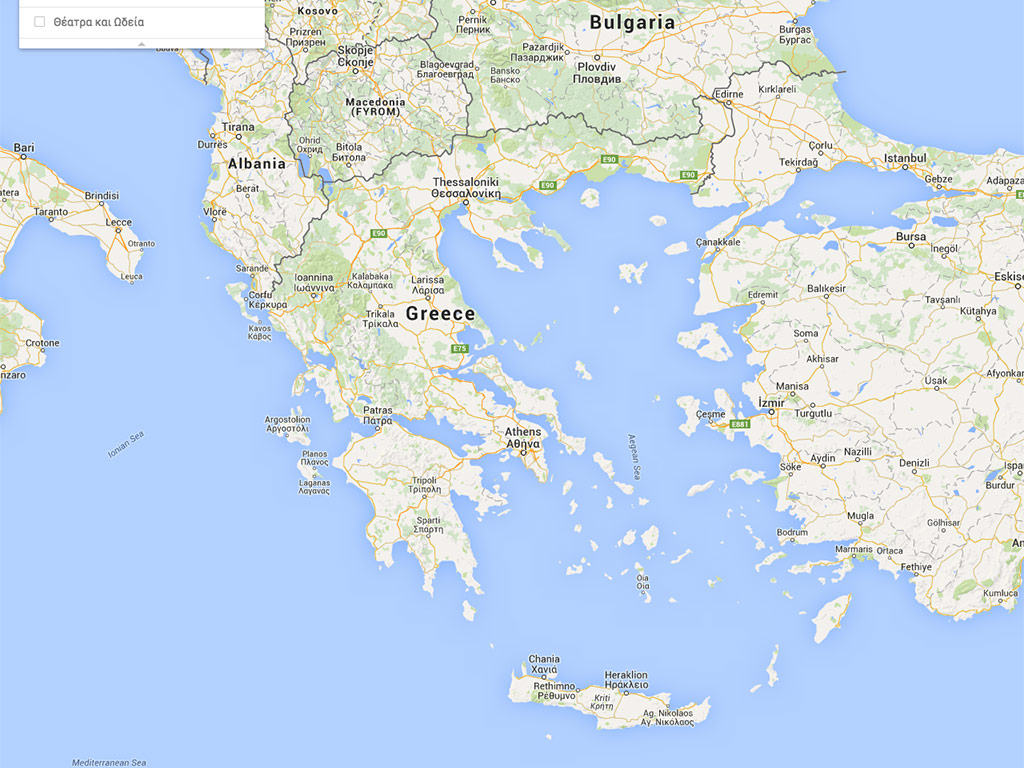
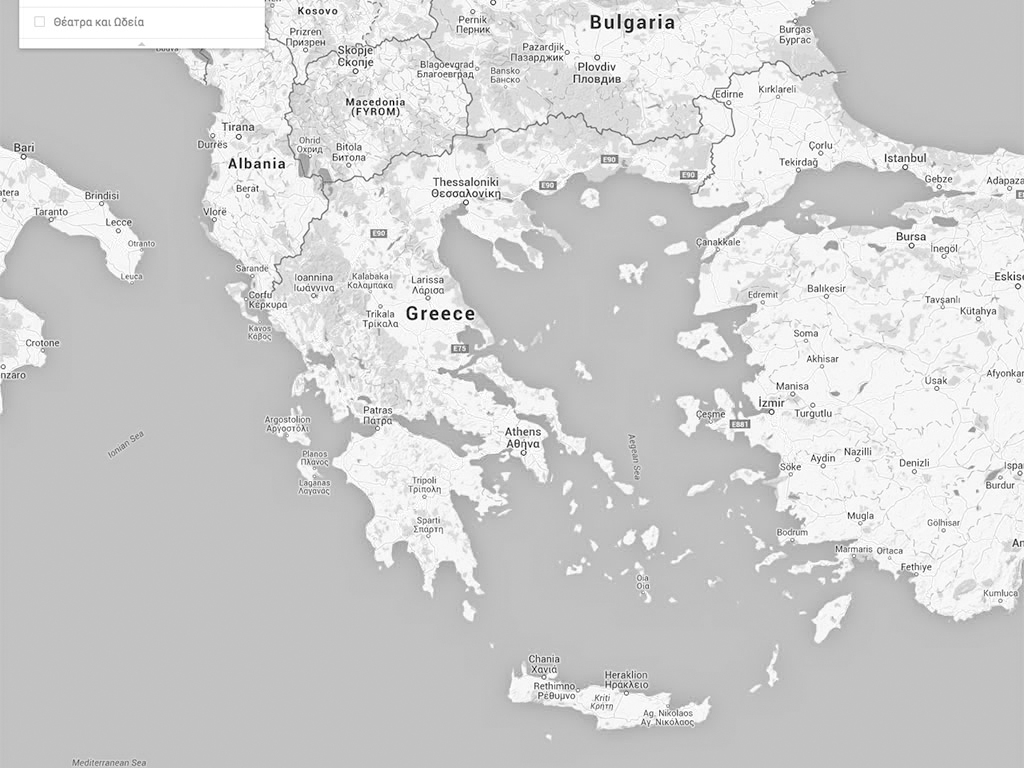
Minor corrections on game 3

diff --git a/game_3/index.htm b/game_3/index.htm
@@ -21,12 +21,12 @@
 	<!-- preload images -->
 	<script>
 		$.getJSON("data.json", function(data) { game_data = data; }).complete(function() {
-			var theaters_gr = game_data.theaters.greece; var theaters_med = game_data.theaters.mediterranean; var theaters_all = theaters_gr.concat(theaters_med);
+			//var theaters_gr = game_data.theaters.greece; var theaters_med = game_data.theaters.mediterranean; var theaters_all = theaters_gr.concat(theaters_med);
 			var all_imgs = new Array(); var count = 0;
-			for (t = 0; t < theaters_all.length; t++) {
+			/* for (t = 0; t < theaters_all.length; t++) {
 				var num_of_imgs = theaters_all[t].num_of_imgs;
 				for (n = 1; n <= num_of_imgs; n++) { all_imgs[count] = new Image(400,300); all_imgs[count++].src = "assets/img/400x300/" + theaters_all[t].id + "_" + n + ".jpg"; }
-			}
+			} */
 			all_imgs[count] = new Image(1024,768); all_imgs[count++].src = "assets/img/greece.jpg";
 			all_imgs[count] = new Image(1024,768); all_imgs[count++].src = "assets/img/mediterranean.jpg";			
 		});

diff --git a/game_3/assets/css/styles.less b/game_3/assets/css/styles.less
@@ -171,7 +171,7 @@ a {
 /* custom objects */
 #loader { width:100%; height:100%; .fixPos(0,0); .z(20000); background:@sitebeize - #222; overflow:hidden; }
 #dhtmltooltip { .abs; max-width:350px; background:@white!important; color:@textGray; padding:10px; visibility:hidden; .z(5500); .pt(14); margin:4px; .transparent(0.95,95); }
-#container { width:1024px; height:768px; background:#b3d2ff; .shadowed(0,2px,5px); margin:0 auto; overflow:hidden; .rel;
+#container { width:1024px; height:768px; background:@midGray; .shadowed(0,2px,5px); margin:0 auto; overflow:hidden; .rel;
 	.screen { width:100%; height:100%; background:@white; .absPos(0,0); .transparent(1,100); .transition(~"opacity .3s ease-in-out, -webkit-opacity .3s ease-in-out"); &.hidden { .absPos(-100%,0); .transparent(0,0); }
 		img.bg { .absPos(0,0); .z(0); }
 		.theaters { width:100%; height:100%; .absPos(0,0); .z(100);

diff --git a/game_3/assets/css/styles.css b/game_3/assets/css/styles.css
@@ -569,7 +569,7 @@ a.footer:hover {
 #container {
   width: 1024px;
   height: 768px;
-  background: #b3d2ff;
+  background: #999999;
   -webkit-box-shadow: 0 2px 5px rgba(0, 0, 0, 0.25);
   -moz-box-shadow: 0 2px 5px rgba(0, 0, 0, 0.25);
   box-shadow: 0 2px 5px rgba(0, 0, 0, 0.25);
